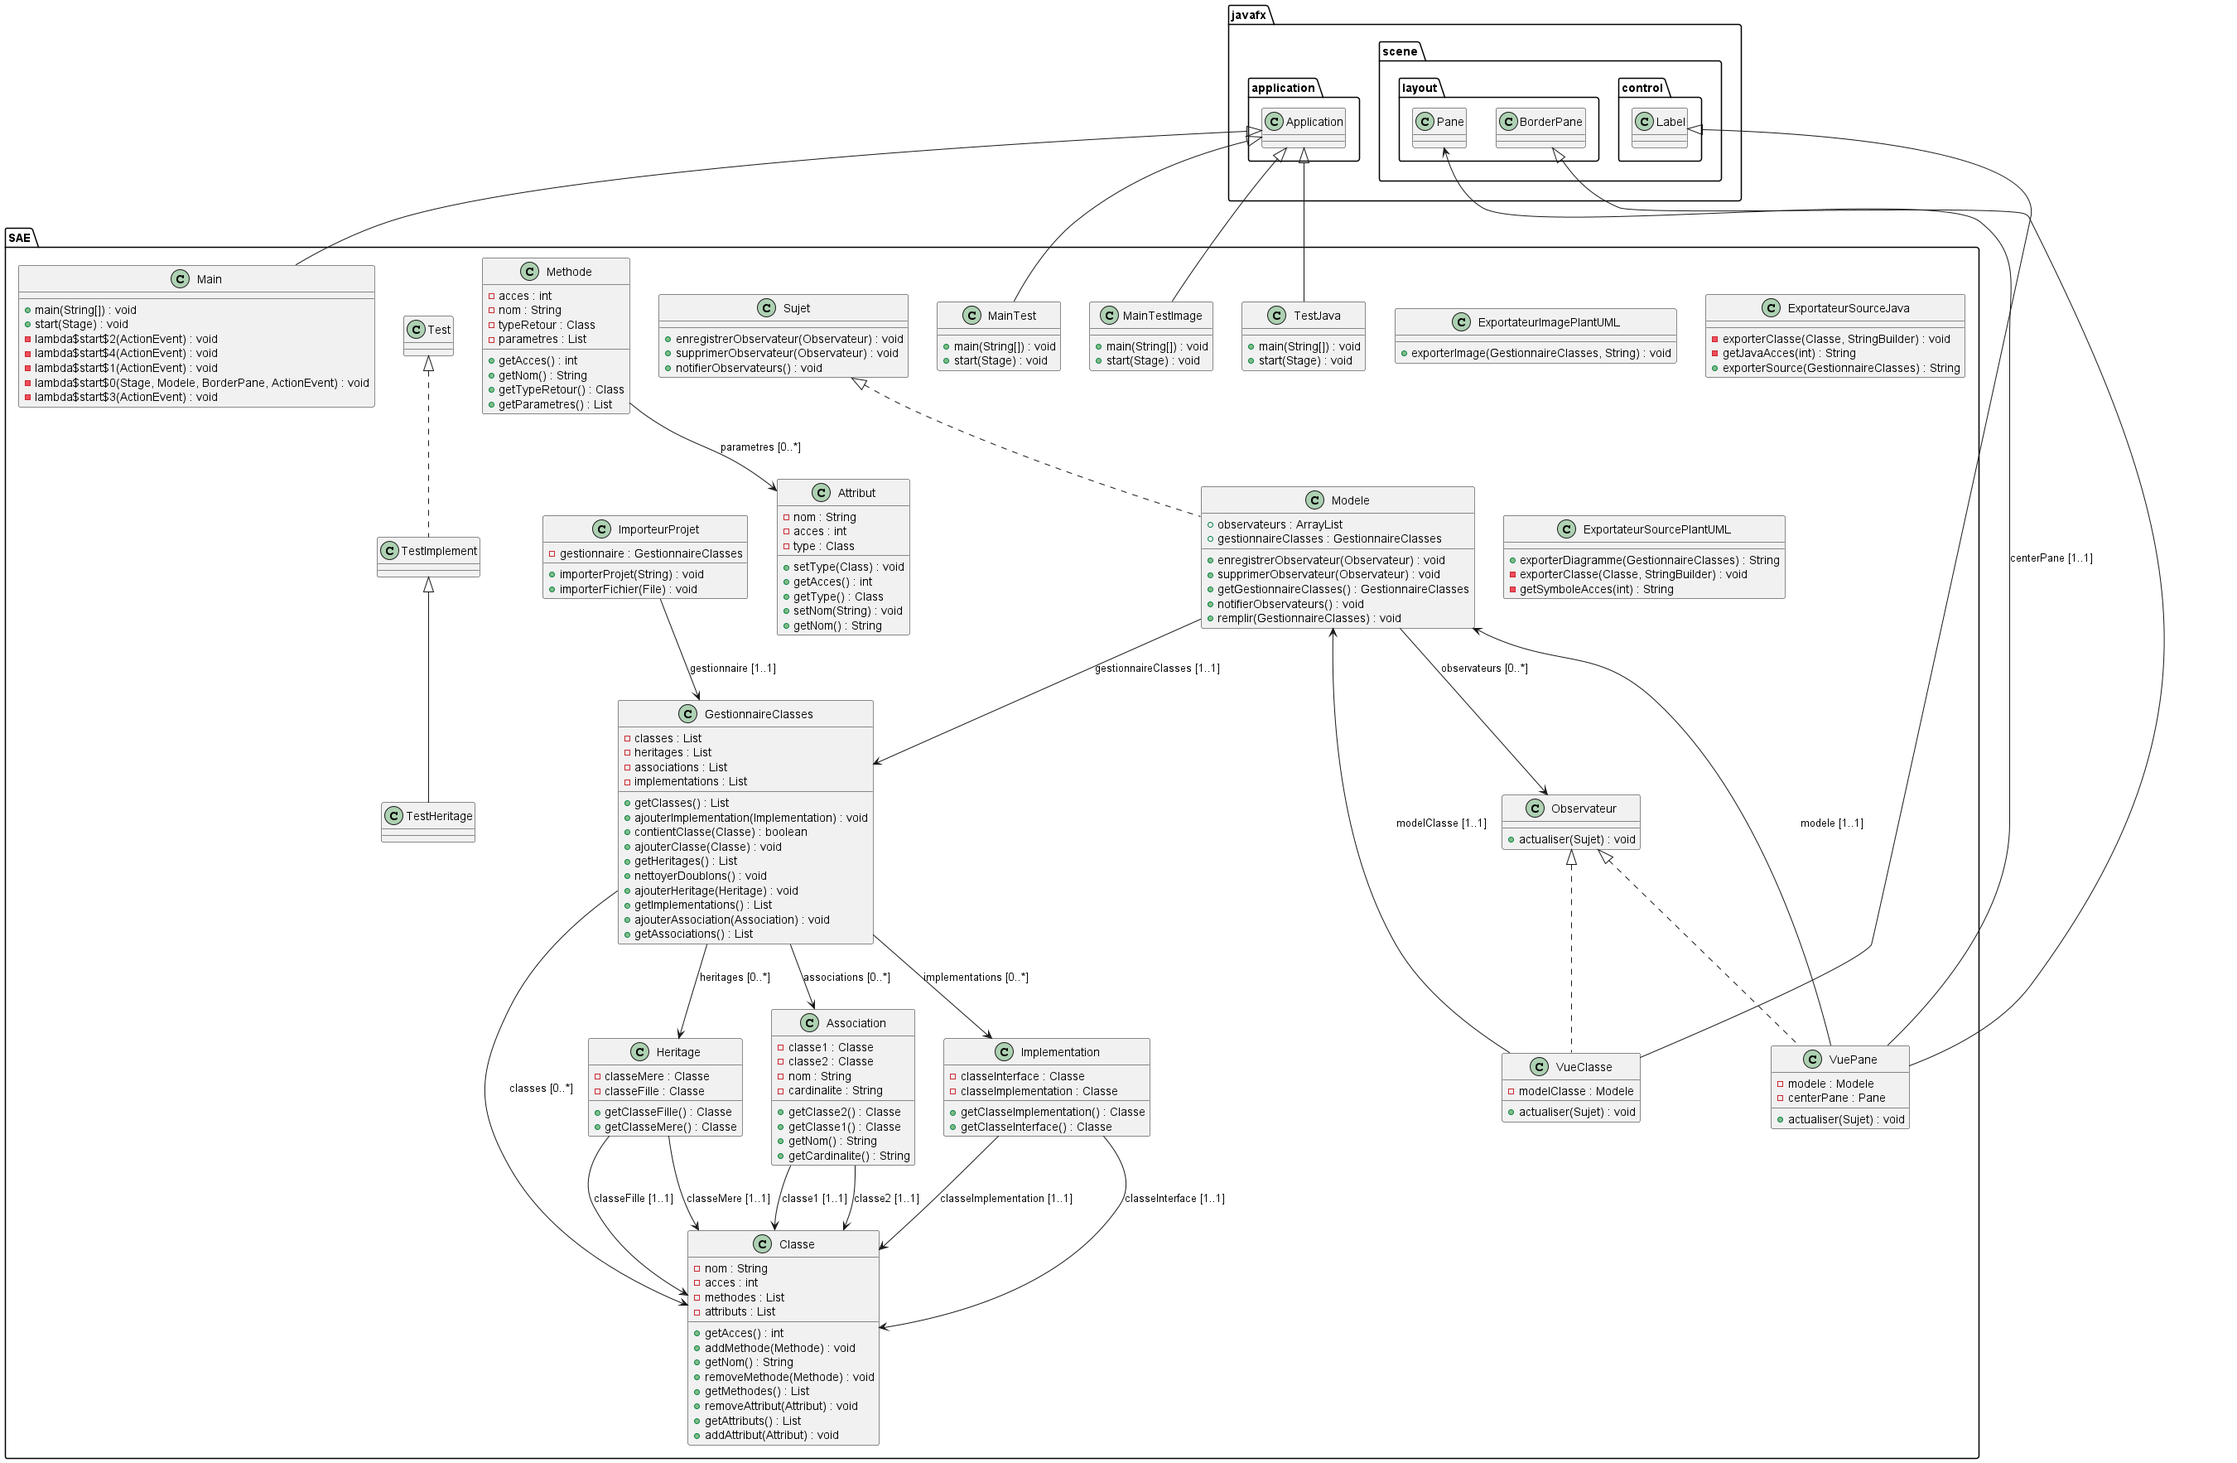
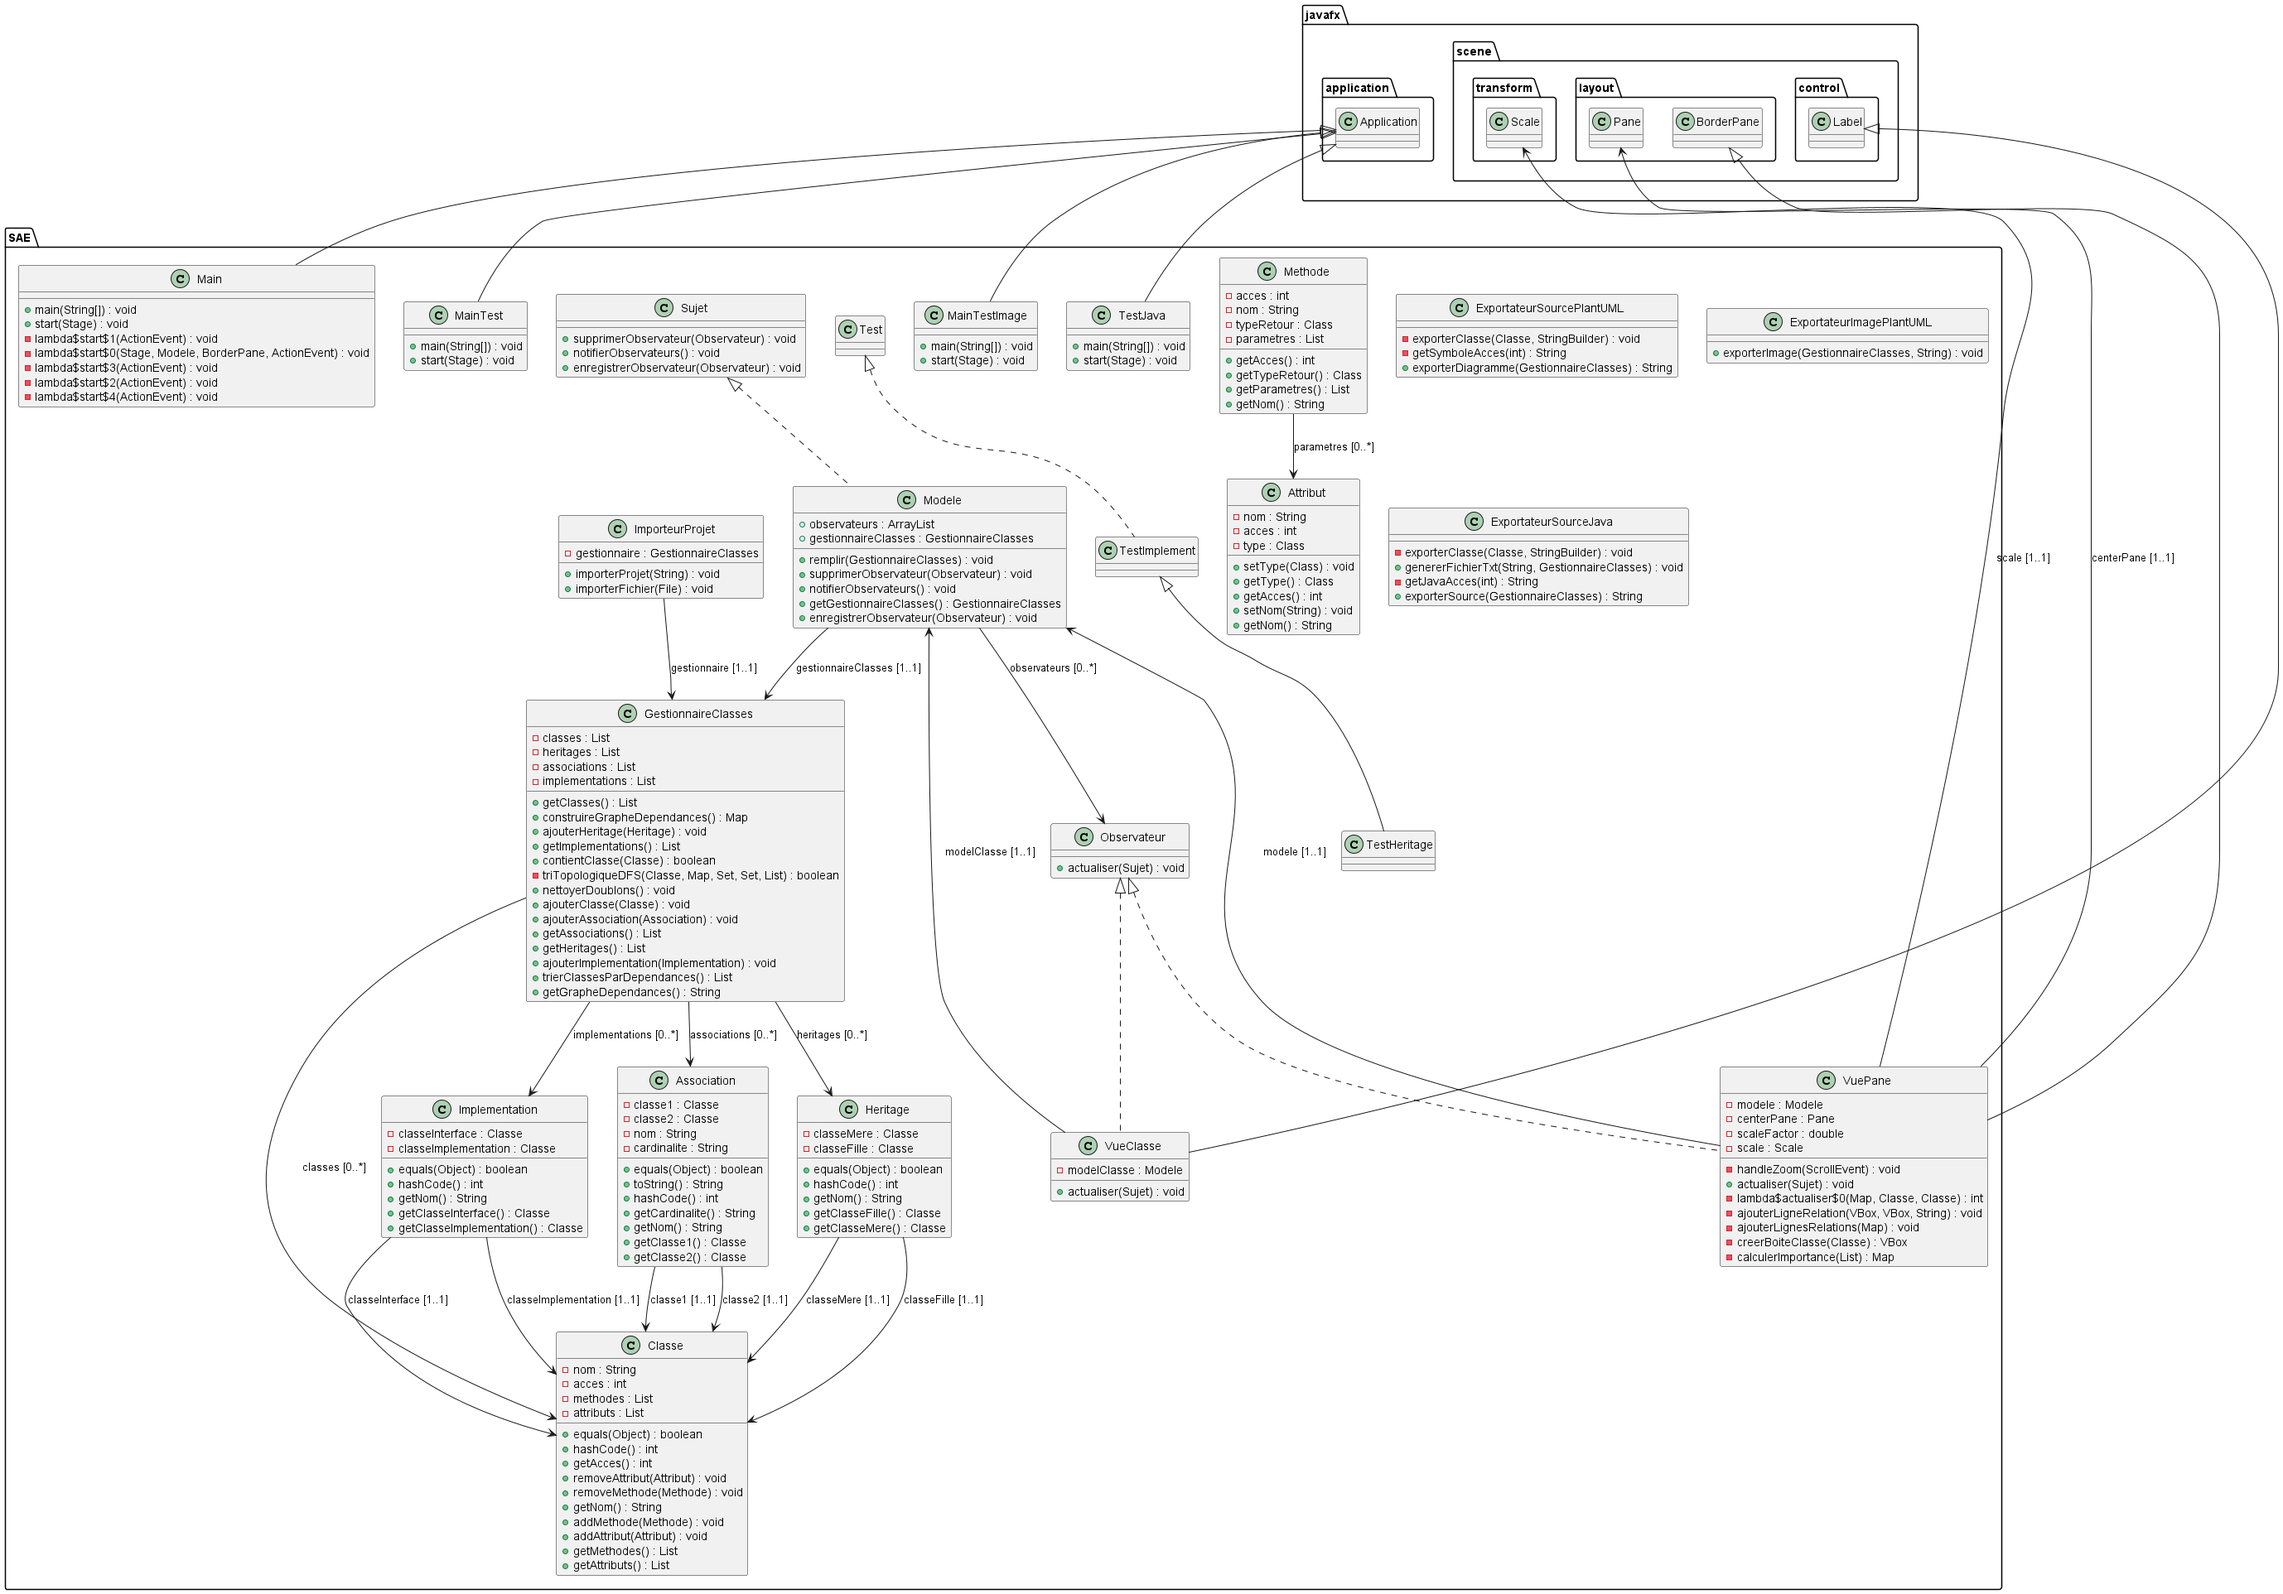
déplacer les classes (sans les relations)

diff --git a/src/SAE/VuePane.java b/src/SAE/VuePane.java
@@ -14,16 +14,17 @@ import java.util.Map;
 
 public class VuePane extends BorderPane implements Observateur {
     private Modele modele;
-    private Pane centerPane;
+
     private double scaleFactor = 1.0;
     private Scale scale;
+    private Pane centerPane = new Pane();
+    ScrollPane scrollPane = new ScrollPane(centerPane);
 
     public VuePane(Modele modele) {
         this.modele = modele;
 
         //Pane pour le diagramme et le ScrollPane
-        centerPane = new Pane();
-        ScrollPane scrollPane = new ScrollPane(centerPane);
+
 
         // Configurer le ScrollPane
         scrollPane.setPannable(true); //clic-glissé pour naviguer
@@ -100,6 +101,27 @@ public class VuePane extends BorderPane implements Observateur {
             // Suivre les limites maximales
             maxX = Math.max(maxX, x + 100);
             maxY = Math.max(maxY, y + 100);
+
+            // Ajout des événements de glisser-déposer
+            vPrincipale.setOnMousePressed(event -> {
+                // Sauvegarder la position initiale de la souris
+                vPrincipale.setUserData(new double[]{event.getSceneX(), event.getSceneY()});
+            });
+
+            vPrincipale.setOnMouseDragged(event -> {
+                scrollPane.setPannable(false);
+                // Récupérer la position initiale
+                double[] initialMousePos = (double[]) vPrincipale.getUserData();
+                if (initialMousePos != null) {
+                    double deltaX = event.getSceneX() - initialMousePos[0];
+                    double deltaY = event.getSceneY() - initialMousePos[1];
+                    // Déplacer la classe
+                    vPrincipale.setLayoutX(vPrincipale.getLayoutX() + deltaX);
+                    vPrincipale.setLayoutY(vPrincipale.getLayoutY() + deltaY);
+                    // Mettre à jour la position initiale pour la prochaine itération
+                    vPrincipale.setUserData(new double[]{event.getSceneX(), event.getSceneY()});
+                }
+            });
 
             vBoxHashMap.put(c, vPrincipale);
             centerPane.getChildren().add(vPrincipale);

diff --git a/src/SAE/VueClasse.java b/src/SAE/VueClasse.java
@@ -1,8 +1,8 @@
 package SAE;
 
-import javafx.scene.control.Label;
+import javafx.scene.layout.VBox;
 
-public class VueClasse extends Label implements Observateur {
+public class VueClasse extends VBox implements Observateur {
 
     private Modele modelClasse;
 
@@ -12,5 +12,6 @@ public class VueClasse extends Label implements Observateur {
 
     @Override
     public void actualiser(Sujet s) {
+
     }
 }
